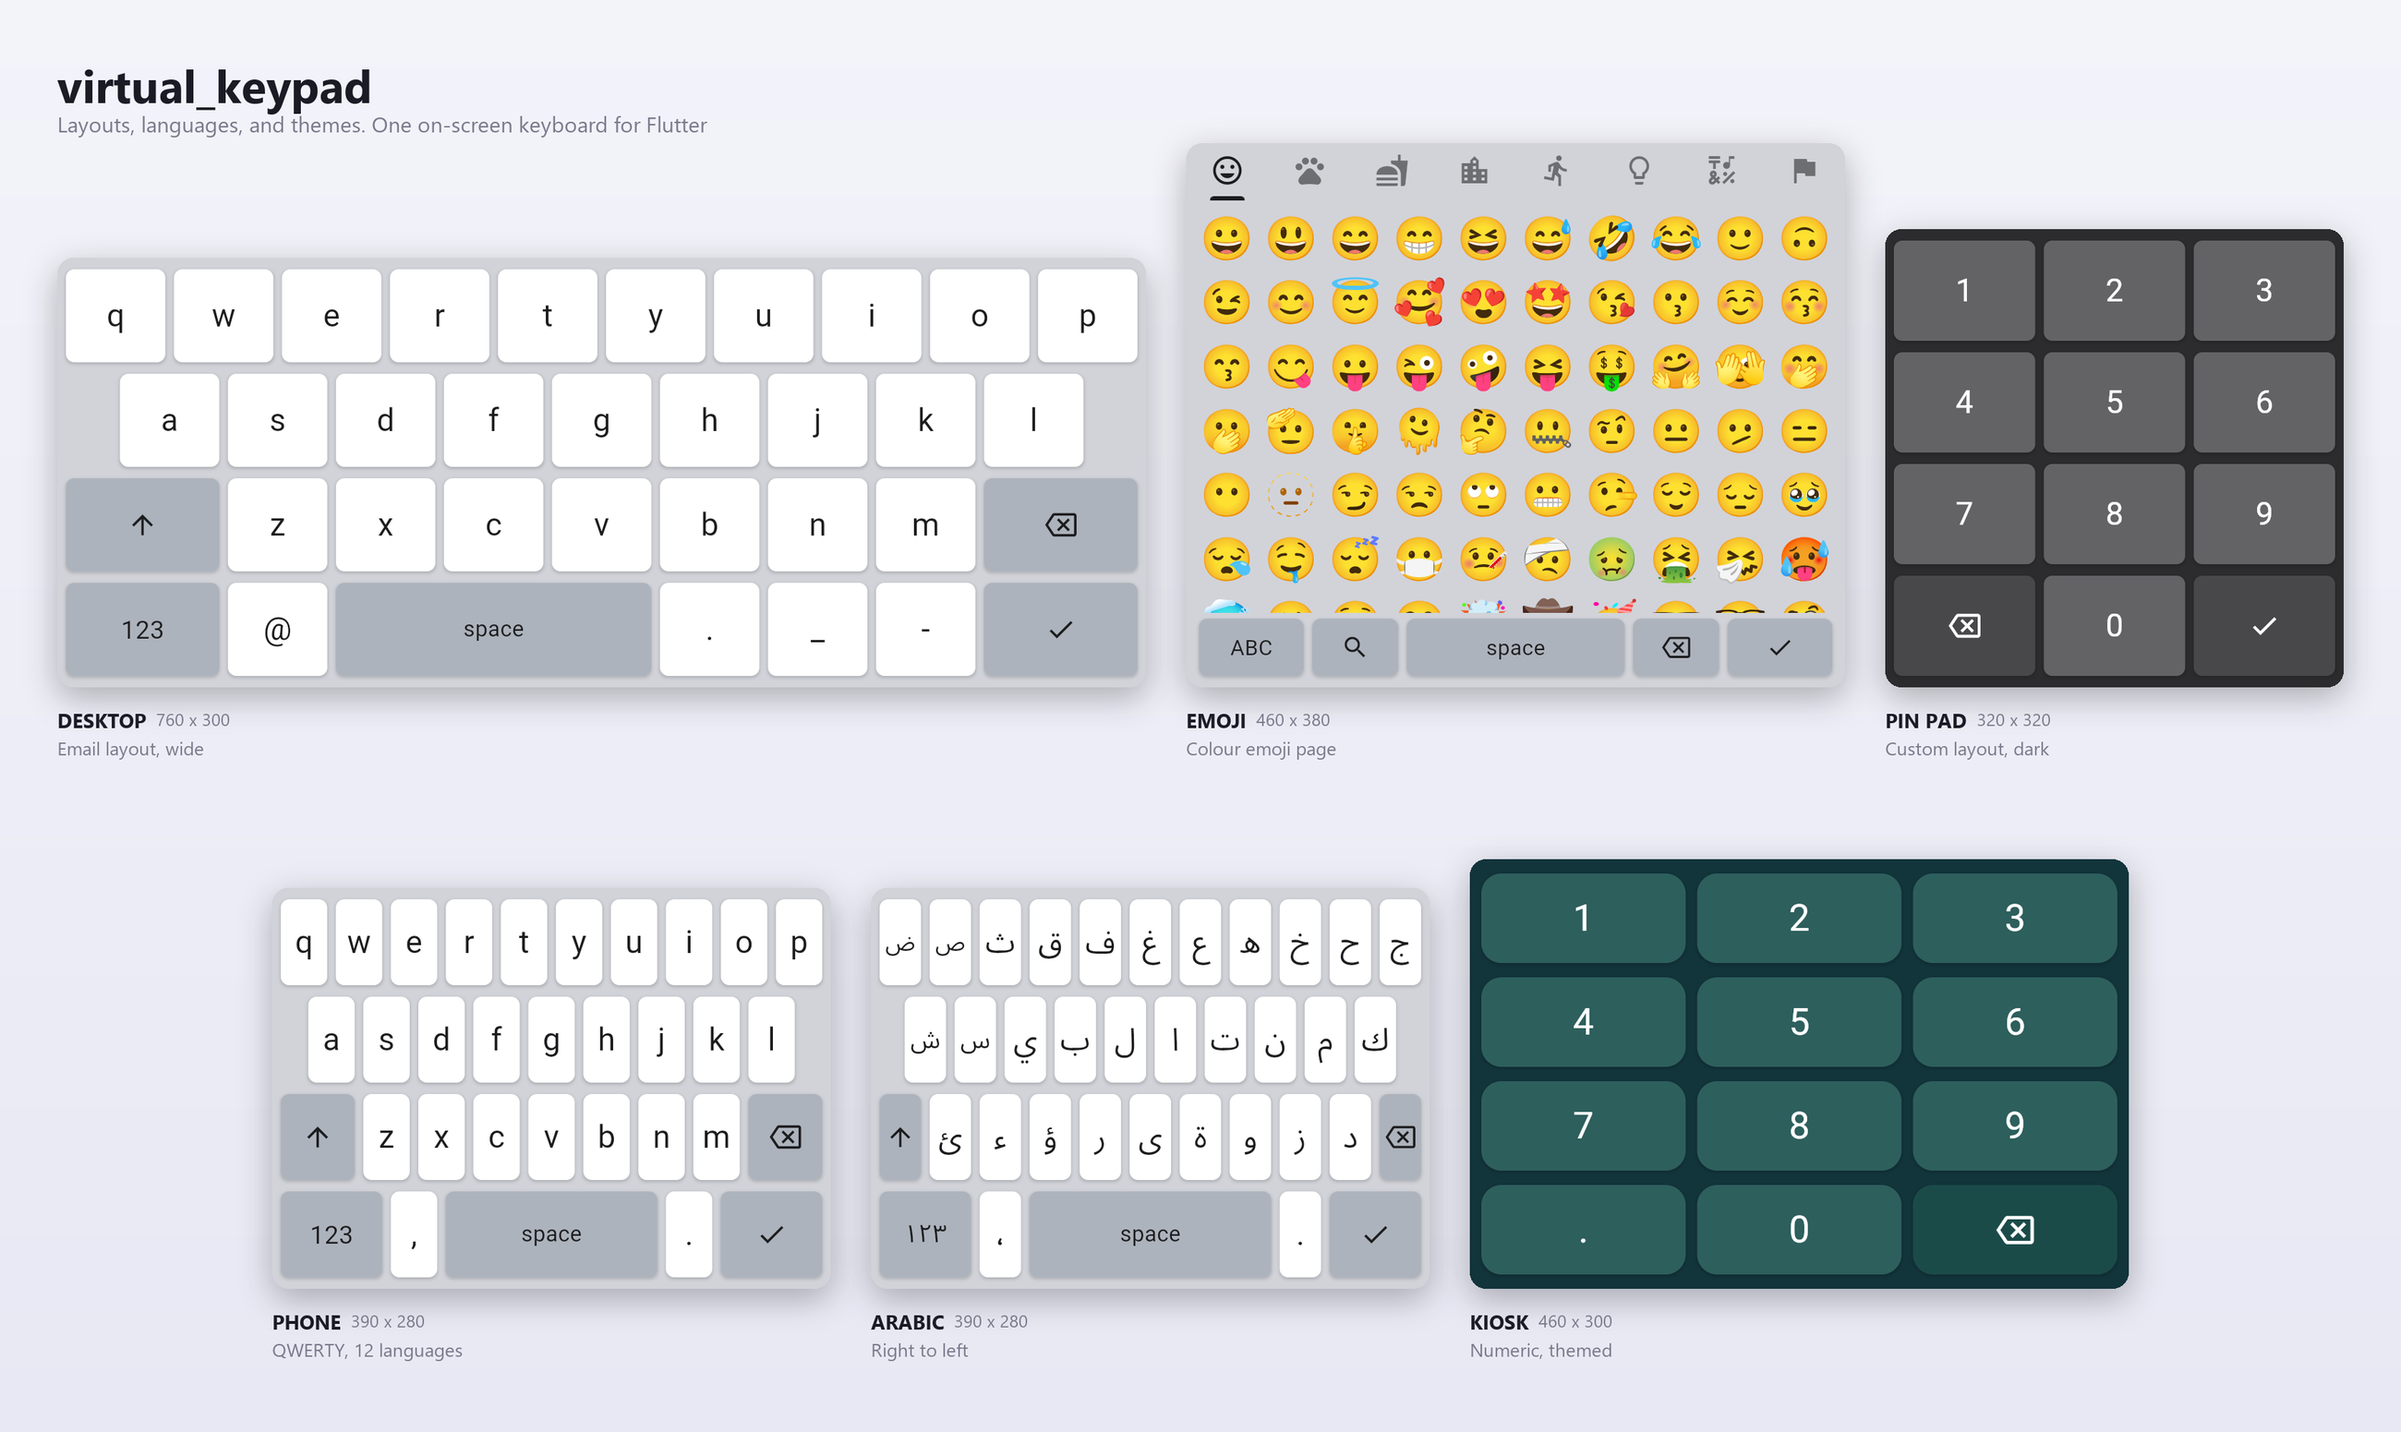
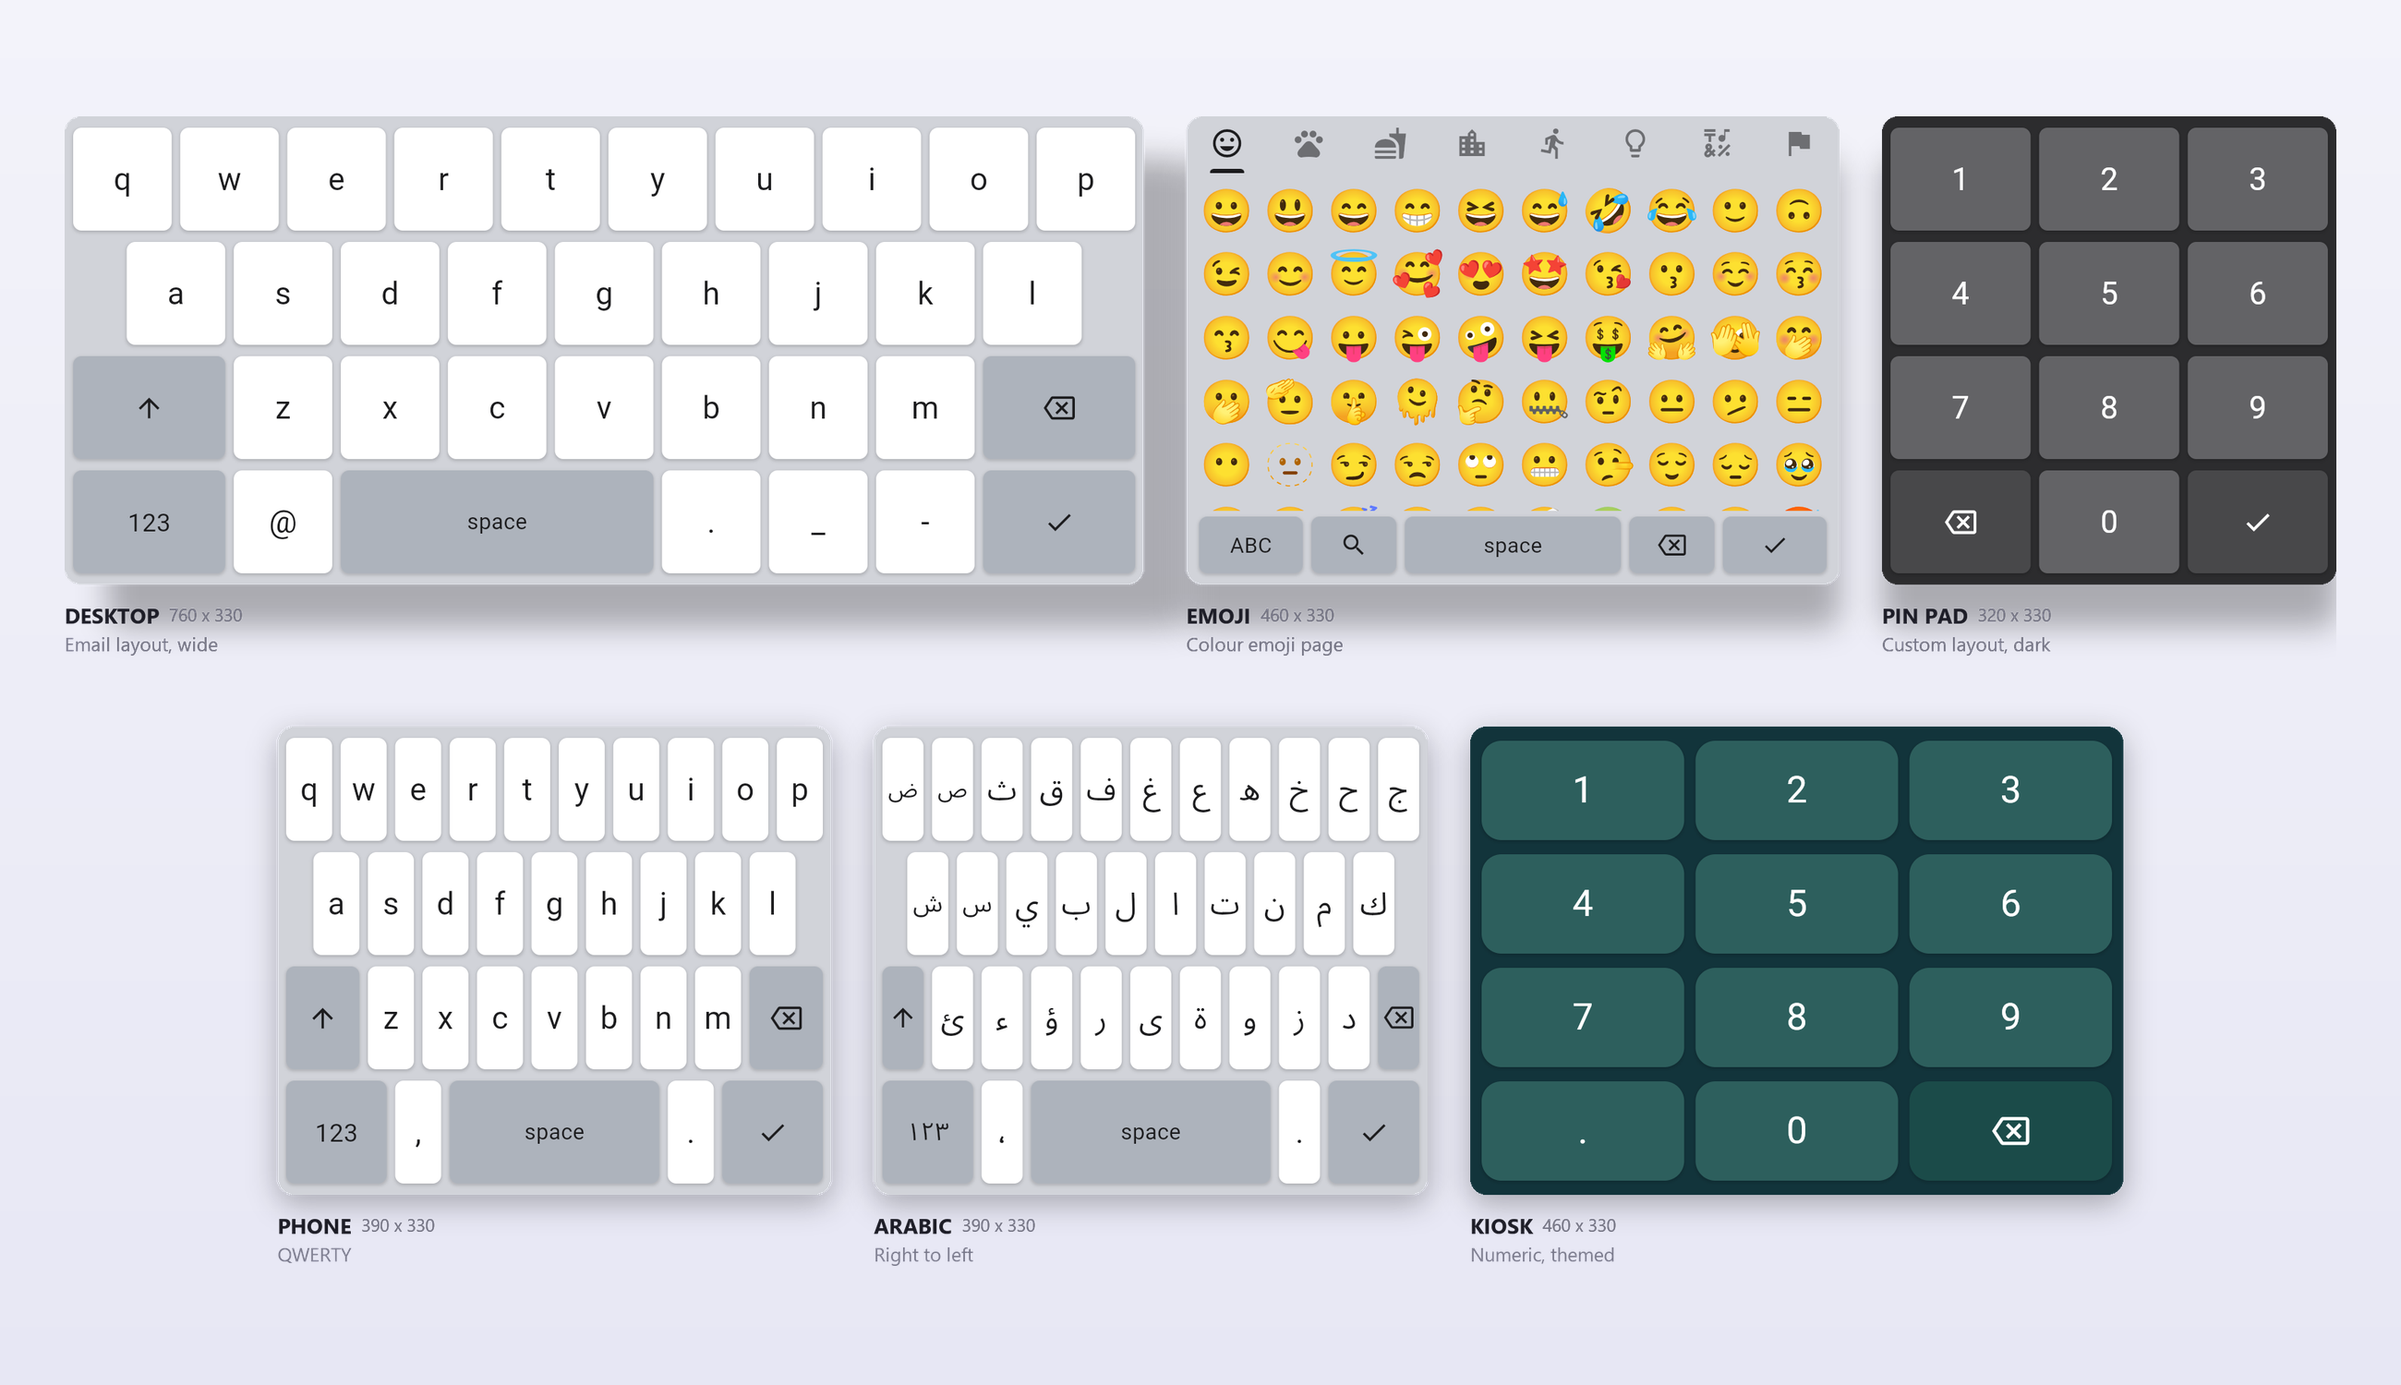
chore: drop the showcase header and add a languages sheet
The header took the top fifth of the image to repeat the package name
that pub.dev already prints beside it. Removing it and fitting the
keyboard block to the canvas gives that space back to the keyboards.

Every keyboard in a sheet is now rendered at the same height, so only the
widths differ and the lineup reads as a width comparison rather than a
ragged set of boxes. A row-height assertion in the compositor keeps it
that way.

Adds a second sheet at the same canvas size showing six of the twelve
built-in languages: Bengali, Hindi, Russian, Korean, Thai, and French
AZERTY. Scenes are addressed as lang-<code>, so adding one is a line in
the sheet rather than new Dart.

Caption notes use Latin layout names. Native script rendered as tofu,
since the caption font has no Bengali, Devanagari, or Hangul glyphs. The
keyboards themselves render those scripts correctly; only the labels the
compositor draws were affected.

diff --git a/example/lib/screenshot_scenes_main.dart b/example/lib/screenshot_scenes_main.dart
@@ -22,13 +22,17 @@ void main() {
 /// Exact size of each scene, which is the size of the keyboard itself. The
 /// capture viewport matches, so a shot contains the keyboard and nothing else.
 const sceneSizes = <String, Size>{
-  'desktop': Size(760, 300),
-  'emoji': Size(460, 380),
-  'phone': Size(390, 280),
-  'pin': Size(320, 320),
-  'arabic': Size(390, 280),
-  'kiosk': Size(460, 300),
+  'desktop': Size(760, 330),
+  'emoji': Size(460, 330),
+  'phone': Size(390, 330),
+  'pin': Size(320, 330),
+  'arabic': Size(390, 330),
+  'kiosk': Size(460, 330),
 };
+
+/// Language scenes are addressed as `lang-<code>` and all share one size, so
+/// the sheet reads as a comparison of scripts rather than of dimensions.
+const languageSceneSize = Size(430, 290);
 
 class SceneApp extends StatelessWidget {
   const SceneApp({super.key, required this.scene});
@@ -37,7 +41,9 @@ class SceneApp extends StatelessWidget {
 
   @override
   Widget build(BuildContext context) {
-    final size = sceneSizes[scene] ?? sceneSizes['phone']!;
+    final size = scene.startsWith('lang-')
+        ? languageSceneSize
+        : (sceneSizes[scene] ?? sceneSizes['phone']!);
     return MaterialApp(
       debugShowCheckedModeBanner: false,
       // Pinned, so the layout does not depend on the capture viewport.
@@ -54,6 +60,16 @@ class SceneApp extends StatelessWidget {
   }
 
   Widget _keyboard(String scene, double height) {
+    if (scene.startsWith('lang-')) {
+      final code = scene.substring(5);
+      return Builder(
+        builder: (_) {
+          KeyboardLayoutProvider.instance.setLanguage(code);
+          return VirtualKeypad(height: height, hideWhenUnfocused: false);
+        },
+      );
+    }
+
     switch (scene) {
       case 'desktop':
         return VirtualKeypad(

diff --git a/tool/make_showcase.py b/tool/make_showcase.py
@@ -1,9 +1,12 @@
-"""Capture each keyboard on its own, then stitch them into one image.
+"""Capture each keyboard on its own, then stitch them into sheets.
 
 Every scene renders a single keyboard at an exact size and is captured at a
-viewport to match, so a shot contains the keyboard and nothing else. They are
-composited at native scale and bottom aligned, which keeps the real size
-relationship between a 760px desktop keyboard and a 320px PIN pad.
+viewport to match, so a shot contains the keyboard and nothing else. Shots are
+composited at native scale and bottom aligned within their row, which keeps the
+real size relationship between a 760px desktop keyboard and a 320px PIN pad.
+
+Both sheets are emitted at the same canvas size so they sit together in a
+package gallery.
 
 Usage, from the package root:
 
@@ -23,21 +26,24 @@ import subprocess
 import sys
 import tempfile
 import threading
-from dataclasses import dataclass
+from dataclasses import dataclass, field
 from pathlib import Path
 
 from PIL import Image, ImageDraw, ImageFilter, ImageFont
 
 ROOT = Path(__file__).resolve().parent.parent
 WEB = ROOT / "example" / "build" / "web"
-OUT = ROOT / "previews" / "showcase-devices.png"
+PREVIEWS = ROOT / "previews"
 PORT = 8139
 DPR = 2
 
+# Both sheets land on exactly this canvas.
+CANVAS = (2600, 1500)
+
 BG_TOP = (243, 243, 250)
-BG_BOTTOM = (232, 232, 244)
+BG_BOTTOM = (231, 231, 244)
 INK = (27, 27, 37)
-MUTED = (122, 122, 140)
+MUTED = (120, 120, 138)
 
 BROWSERS = [
     r"C:\Program Files\Google\Chrome\Application\chrome.exe",
@@ -48,7 +54,7 @@ BROWSERS = [
 ]
 
 
-@dataclass
+@dataclass(frozen=True)
 class Scene:
     key: str
     label: str
@@ -57,18 +63,52 @@ class Scene:
     height: int
 
 
-SCENES = [
-    Scene("desktop", "Desktop", "Email layout, wide", 760, 300),
-    Scene("emoji", "Emoji", "Colour emoji page", 460, 380),
-    Scene("pin", "PIN pad", "Custom layout, dark", 320, 320),
-    Scene("phone", "Phone", "QWERTY, 12 languages", 390, 280),
-    Scene("arabic", "Arabic", "Right to left", 390, 280),
-    Scene("kiosk", "Kiosk", "Numeric, themed", 460, 300),
-]
+@dataclass
+class Sheet:
+    out: str
+    rows: list[list[Scene]] = field(default_factory=list)
 
-# Two rows rather than one long strip: a 5:1 banner renders unreadably small
-# in a package gallery.
-ROWS = [["desktop", "emoji", "pin"], ["phone", "arabic", "kiosk"]]
+
+LAYOUTS = Sheet(
+    "showcase-devices.png",
+    [
+        [
+            Scene("desktop", "Desktop", "Email layout, wide", 760, 330),
+            Scene("emoji", "Emoji", "Colour emoji page", 460, 330),
+            Scene("pin", "PIN pad", "Custom layout, dark", 320, 330),
+        ],
+        [
+            Scene("phone", "Phone", "QWERTY", 390, 330),
+            Scene("arabic", "Arabic", "Right to left", 390, 330),
+            Scene("kiosk", "Kiosk", "Numeric, themed", 460, 330),
+        ],
+    ],
+)
+
+
+def _lang(code: str, label: str, note: str) -> Scene:
+    return Scene(f"lang-{code}", label, note, 430, 290)
+
+
+LANGUAGES = Sheet(
+    "showcase-languages.png",
+    [
+        [
+            # Latin layout names, not native script: the caption font has no
+            # Bengali, Devanagari, or Hangul glyphs and would render tofu.
+            _lang("bn", "Bengali", "Bengali script"),
+            _lang("hi", "Hindi", "Devanagari"),
+            _lang("ru", "Russian", "JCUKEN, Cyrillic"),
+        ],
+        [
+            _lang("ko", "Korean", "Dubeolsik, Hangul"),
+            _lang("th", "Thai", "Kedmanee"),
+            _lang("fr", "French", "AZERTY"),
+        ],
+    ],
+)
+
+SHEETS = [LAYOUTS, LANGUAGES]
 
 
 def find_browser() -> str:
@@ -82,9 +122,9 @@ def find_browser() -> str:
 
 
 def serve(directory: Path) -> socketserver.TCPServer:
-    handler = lambda *a, **kw: http.server.SimpleHTTPRequestHandler(  # noqa: E731
-        *a, directory=str(directory), **kw
-    )
+    def handler(*a, **kw):
+        return http.server.SimpleHTTPRequestHandler(*a, directory=str(directory), **kw)
+
     socketserver.TCPServer.allow_reuse_address = True
     server = socketserver.TCPServer(("127.0.0.1", PORT), handler)
     threading.Thread(target=server.serve_forever, daemon=True).start()
@@ -128,7 +168,7 @@ def shadow(size: tuple[int, int], radius: int, blur: int) -> Image.Image:
     pad = blur * 3
     layer = Image.new("RGBA", (size[0] + pad * 2, size[1] + pad * 2), (0, 0, 0, 0))
     ImageDraw.Draw(layer).rounded_rectangle(
-        [pad, pad, pad + size[0], pad + size[1]], radius=radius, fill=(0, 0, 0, 70)
+        [pad, pad, pad + size[0], pad + size[1]], radius=radius, fill=(0, 0, 0, 72)
     )
     return layer.filter(ImageFilter.GaussianBlur(blur))
 
@@ -147,6 +187,76 @@ def font(size: int, bold: bool = False) -> ImageFont.FreeTypeFont:
     return ImageFont.load_default(size)
 
 
+def gradient(size: tuple[int, int]) -> Image.Image:
+    column = Image.new("RGB", (1, size[1]))
+    for y in range(size[1]):
+        t = y / max(1, size[1] - 1)
+        column.putpixel(
+            (0, y), tuple(round(a + (b - a) * t) for a, b in zip(BG_TOP, BG_BOTTOM))
+        )
+    return column.resize(size)
+
+
+def compose(sheet: Sheet, shots: dict[str, Image.Image]) -> Image.Image:
+    """Lay the rows out at native scale, then fit the block to the canvas."""
+    gap_x, gap_y, label_block = 60, 96, 104
+
+    rows = [[(s, shots[s.key]) for s in row] for row in sheet.rows]
+    for row in rows:
+        heights = {i.size[1] for _, i in row}
+        assert len(heights) == 1, f"row heights differ: {heights}"
+    row_w = [sum(i.size[0] for _, i in r) + gap_x * (len(r) - 1) for r in rows]
+    row_h = [max(i.size[1] for _, i in r) for r in rows]
+
+    block_w = max(row_w)
+    block_h = sum(h + label_block for h in row_h) + gap_y * (len(rows) - 1)
+
+    block = Image.new("RGBA", (block_w, block_h), (0, 0, 0, 0))
+    draw = ImageDraw.Draw(block)
+
+    y_cursor = 0
+    for row, width, height in zip(rows, row_w, row_h):
+        x = (block_w - width) // 2
+        baseline = y_cursor + height
+        for scene, img in row:
+            w, h = img.size
+            y = baseline - h  # bottom aligned within the row
+            sh = shadow((w, h), 22, 20)
+            block.alpha_composite(sh, (max(0, x - 60), max(0, y - 48)))
+            block.alpha_composite(rounded(img, 22), (x, y))
+
+            label_y = baseline + 22
+            bold = font(30, True)
+            draw.text((x, label_y), scene.label.upper(), font=bold, fill=INK)
+            draw.text(
+                (x + draw.textlength(scene.label.upper(), font=bold) + 14, label_y + 3),
+                f"{scene.width} x {scene.height}",
+                font=font(25),
+                fill=MUTED,
+            )
+            draw.text((x, label_y + 42), scene.note, font=font(27), fill=MUTED)
+            x += w + gap_x
+        y_cursor = baseline + label_block + gap_y
+
+    # Fill as much of the canvas as the margin allows, rather than leaving the
+    # block at whatever size the keyboards happened to add up to.
+    margin = 70
+    fit = min(
+        (CANVAS[0] - margin * 2) / block_w,
+        (CANVAS[1] - margin * 2) / block_h,
+    )
+    block = block.resize(
+        (round(block_w * fit), round(block_h * fit)), Image.LANCZOS
+    )
+
+    canvas = gradient(CANVAS).convert("RGBA")
+    canvas.alpha_composite(
+        block,
+        ((CANVAS[0] - block.size[0]) // 2, (CANVAS[1] - block.size[1]) // 2),
+    )
+    return canvas.convert("RGB")
+
+
 def main() -> None:
     if not (WEB / "index.html").exists():
         sys.exit(
@@ -160,89 +270,27 @@ def main() -> None:
     server = serve(WEB)
     tmp = Path(tempfile.mkdtemp())
     try:
-        shots = []
-        for scene in SCENES:
-            img = capture(browser, scene, tmp / f"{scene.key}.png")
-            print(f"  captured {scene.key:8} {img.size[0]}x{img.size[1]}")
-            shots.append((scene, img))
+        shots: dict[str, Image.Image] = {}
+        for sheet in SHEETS:
+            for row in sheet.rows:
+                for scene in row:
+                    img = capture(browser, scene, tmp / f"{scene.key}.png")
+                    shots[scene.key] = img
+                    print(f"  captured {scene.key:12} {img.size[0]}x{img.size[1]}")
     finally:
         server.shutdown()
 
-    by_key = {scene.key: (scene, img) for scene, img in shots}
-    rows = [[by_key[k] for k in row] for row in ROWS]
-
-    gap_x, gap_y = 56, 130
-    pad_x, pad_top, pad_bottom = 80, 200, 90
-    label_block = 110
-
-    row_w = [
-        sum(i.size[0] for _, i in r) + gap_x * (len(r) - 1) for r in rows
-    ]
-    row_h = [max(i.size[1] for _, i in r) for r in rows]
-
-    canvas_w = max(row_w) + pad_x * 2
-    canvas_h = (
-        pad_top
-        + sum(h + label_block for h in row_h)
-        + gap_y * (len(rows) - 1)
-        + pad_bottom
-    )
-
-    canvas = Image.new("RGB", (canvas_w, canvas_h), BG_TOP)
-    column = Image.new("RGB", (1, canvas_h))
-    for y in range(canvas_h):
-        t = y / canvas_h
-        column.putpixel(
-            (0, y),
-            tuple(round(a + (b - a) * t) for a, b in zip(BG_TOP, BG_BOTTOM)),
+    PREVIEWS.mkdir(parents=True, exist_ok=True)
+    for sheet in SHEETS:
+        out = PREVIEWS / sheet.out
+        image = compose(sheet, shots)
+        image.save(out, optimize=True)
+        print(
+            f"wrote {out.relative_to(ROOT)}  "
+            f"{image.size[0]}x{image.size[1]}  {out.stat().st_size / 1024:.0f} KB"
         )
-    canvas = column.resize((canvas_w, canvas_h))
 
-    draw = ImageDraw.Draw(canvas)
-    draw.text((pad_x, 74), "virtual_keypad", font=font(64, True), fill=INK)
-    draw.text(
-        (pad_x, 152),
-        "Layouts, languages, and themes. One on-screen keyboard for Flutter",
-        font=font(30),
-        fill=MUTED,
-    )
-
-    y_cursor = pad_top
-    for row, width, height in zip(rows, row_w, row_h):
-        x = (canvas_w - width) // 2
-        baseline = y_cursor + height
-        for scene, img in row:
-            w, h = img.size
-            y = baseline - h  # bottom aligned within the row
-            sh = shadow((w, h), 22, 22)
-            canvas.paste(sh, (x - 66, y - 52), sh)
-            canvas.paste(rounded(img, 22), (x, y), rounded(img, 22))
-
-            label_y = baseline + 26
-            bold = font(28, True)
-            draw.text((x, label_y), scene.label.upper(), font=bold, fill=INK)
-            draw.text(
-                (x + draw.textlength(scene.label.upper(), font=bold) + 14,
-                 label_y + 2),
-                f"{scene.width} x {scene.height}",
-                font=font(24),
-                fill=MUTED,
-            )
-            draw.text((x, label_y + 40), scene.note, font=font(26), fill=MUTED)
-            x += w + gap_x
-        y_cursor = baseline + label_block + gap_y
-
-    # Keep the final image wide but not absurd.
-    max_w = 2600
-    if canvas.size[0] > max_w:
-        h = round(canvas.size[1] * max_w / canvas.size[0])
-        canvas = canvas.resize((max_w, h), Image.LANCZOS)
-
-    OUT.parent.mkdir(parents=True, exist_ok=True)
-    canvas.save(OUT, optimize=True)
     shutil.rmtree(tmp, ignore_errors=True)
-    kb = OUT.stat().st_size / 1024
-    print(f"wrote {OUT.relative_to(ROOT)}  {canvas.size[0]}x{canvas.size[1]}  {kb:.0f} KB")
 
 
 if __name__ == "__main__":
